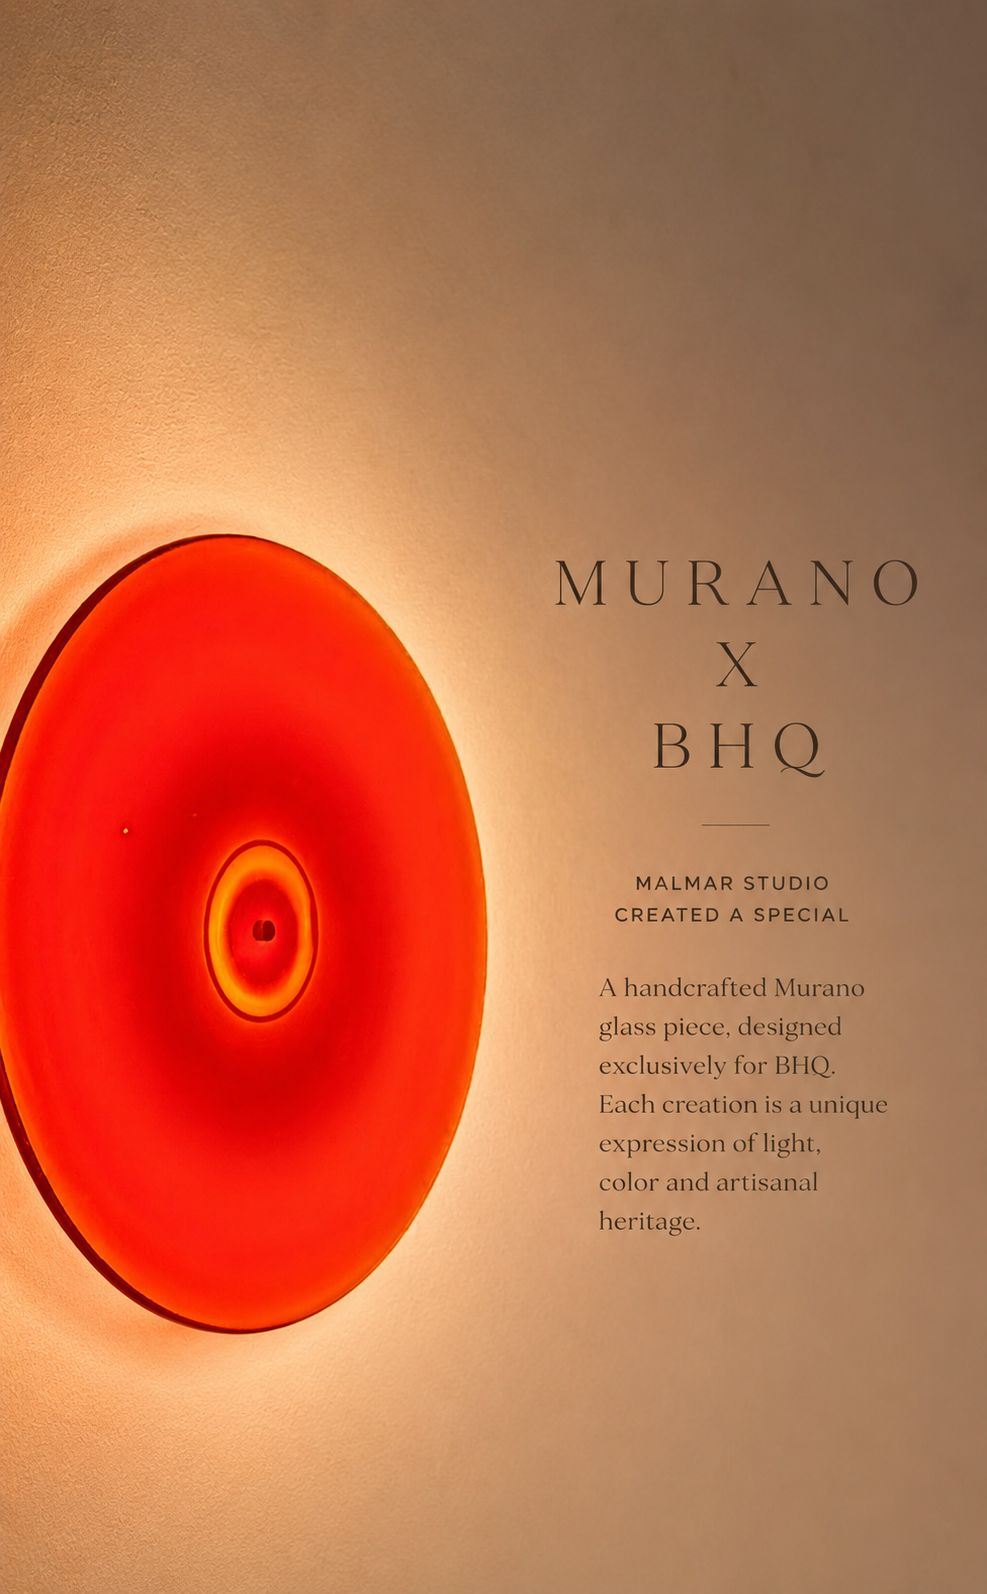
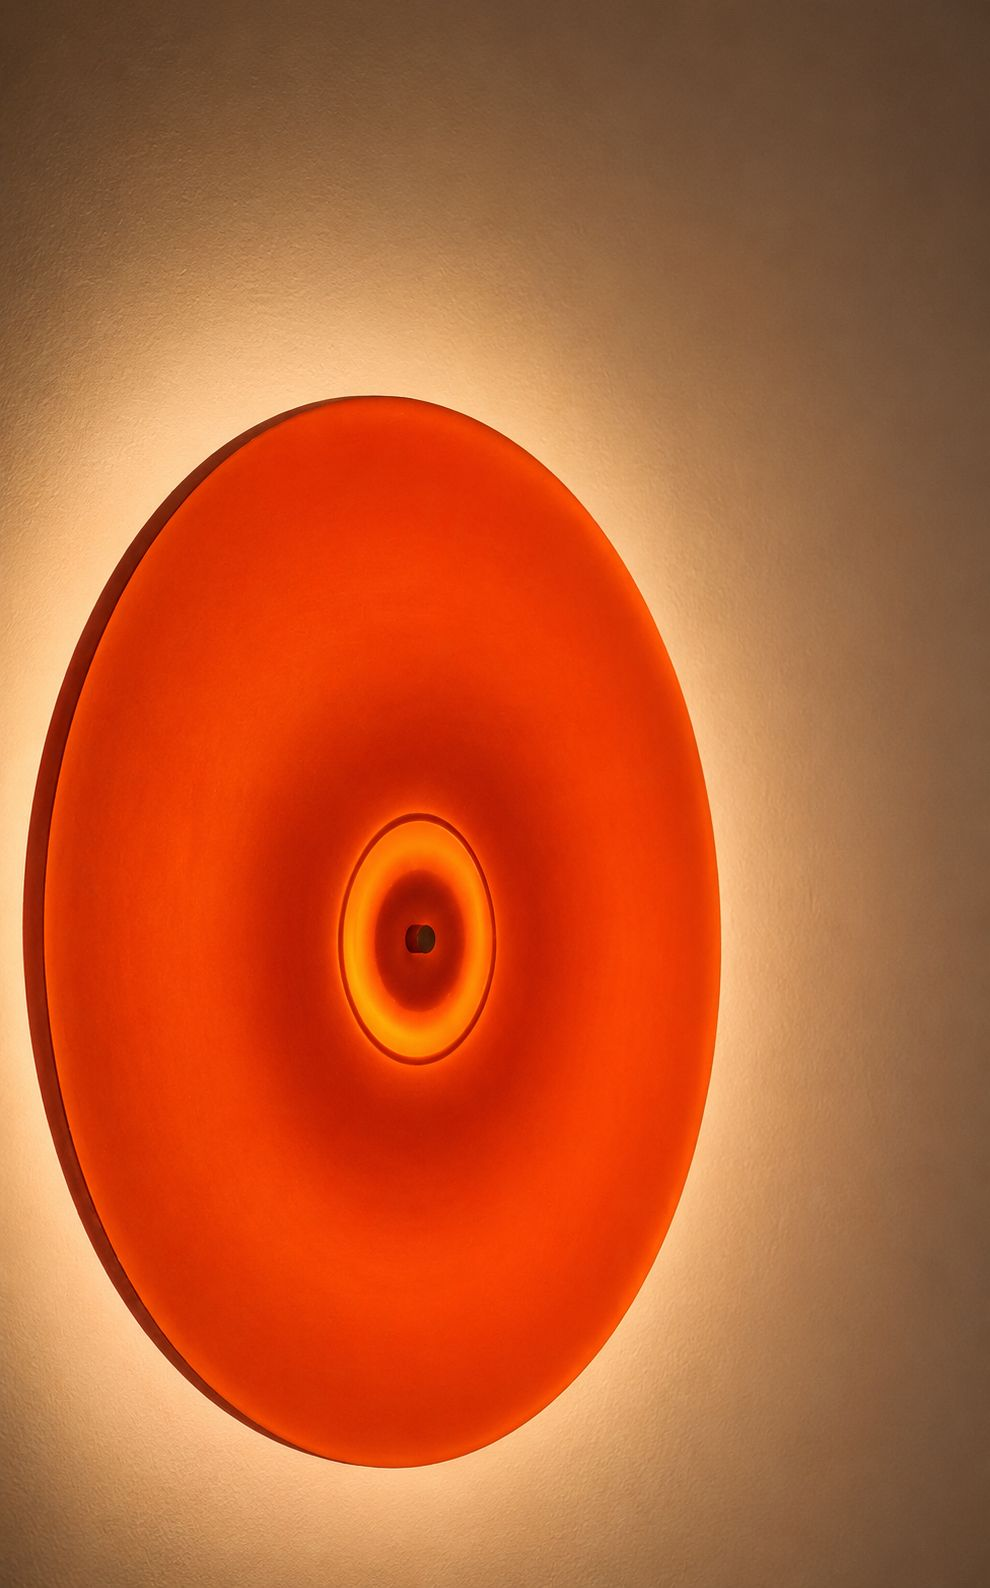
Update services section gallery images (mal1 through mal14)

diff --git a/src/components/ServicesSection.jsx b/src/components/ServicesSection.jsx
@@ -156,16 +156,20 @@ export default function ServicesSection() {
 }
 
 const IMAGES = [
-  "981377_5625.jpg",
-  "arc5.jpeg",
-  "arc9.jpg",
-  "hero.jpeg",
-  "object3.jpg",
-  "object8.jpeg",
-  "commnew1.jpeg",
-  "project2.jpeg",
-  "project1.jpeg",
-  "resnew.jpeg",
+  "mal1.jpeg",
+  "mal2.jpeg",
+  "mal3.jpeg",
+  "mal4.jpeg",
+  "mal5.jpeg",
+  "mal6.jpeg",
+  "mal7.jpeg",
+  "mal8.jpeg",
+  "mal9.jpeg",
+  "mal10.jpeg",
+  "mal11.jpeg",
+  "mal12.jpeg",
+  "mal13.jpeg",
+  "mal14.jpeg",
 ];
 
 const CARD_W = 350;